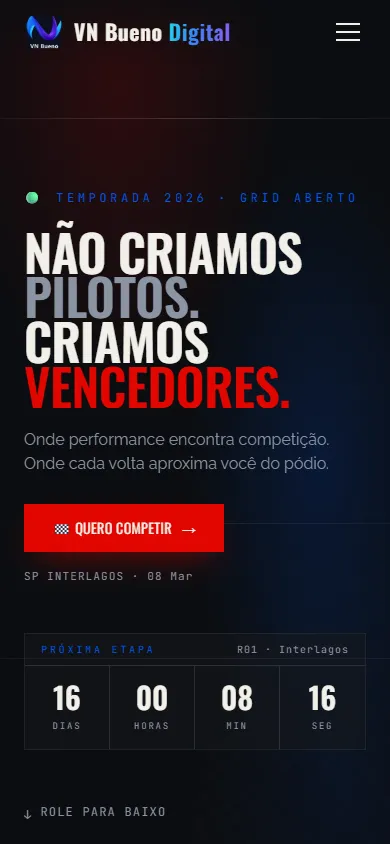
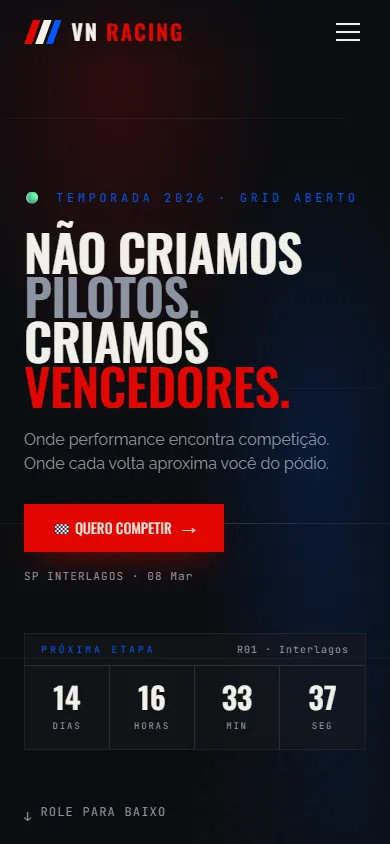
Portfólio: INV Racing agora é VN Racing (nome e telas novas)

diff --git a/src/data/projetos.ts b/src/data/projetos.ts
@@ -57,9 +57,9 @@ export function mensagemInteresse(p: Projeto) {
 
 export const projetos: Projeto[] = [
   {
-    // Marca fictícia (antes Paddock 22, que não fechou). Repo: Joaovsr98/invdevs-kart
+    // Marca fictícia VN Racing (antes INV Racing e Paddock 22). Repo: Joaovsr98/vn-racing
     // Desde 11/11/2026 é oferecido como modelo pronto (tipo 'modelo'): troca marca, cores, datas e contatos.
-    nome: 'INV Racing',
+    nome: 'VN Racing',
     categoria: 'eventos',
     segmento: 'Campeonatos e eventos',
     resultado: 'Modelo pronto para kartódromo, campeonato ou liga de sim racing: entra com a sua marca, cores e datas.',
